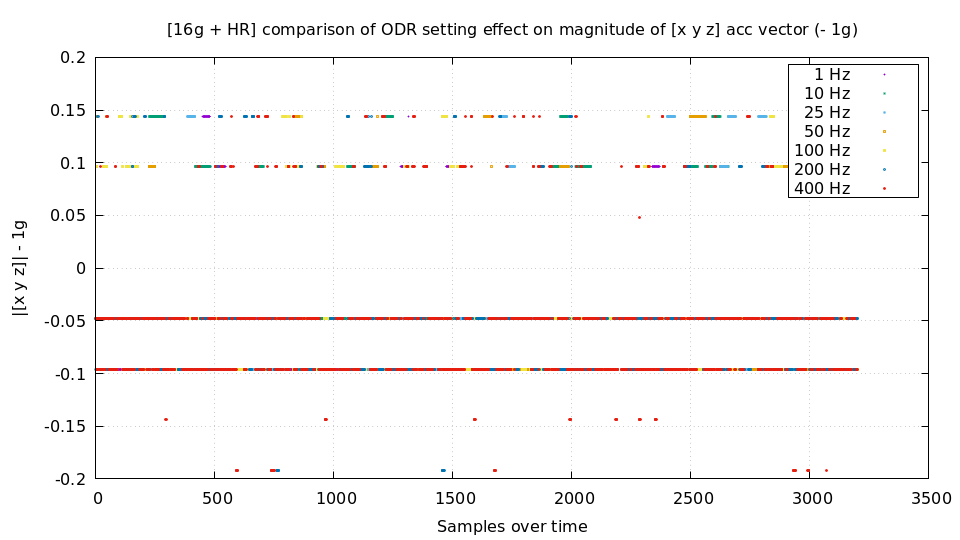
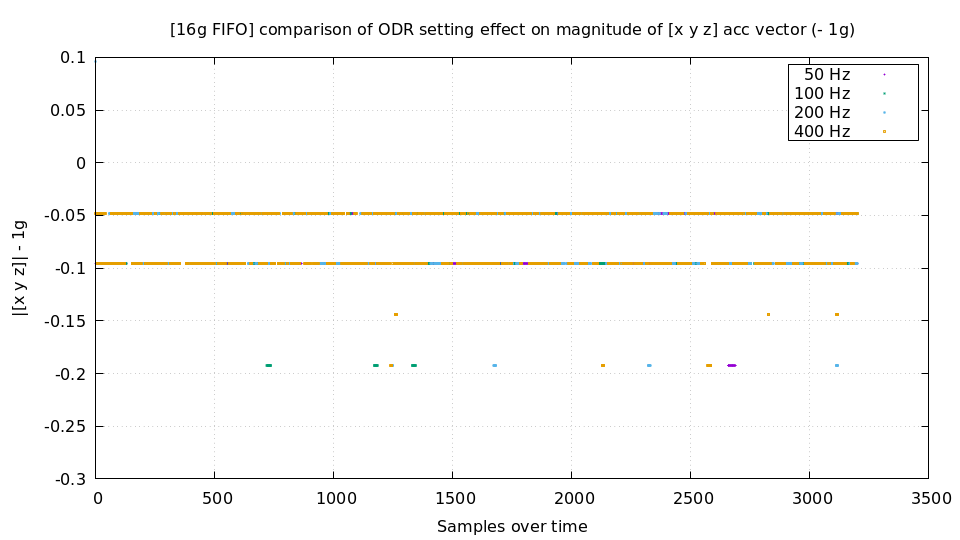
FIFO is always 10-bit

diff --git a/lis3dh.c b/lis3dh.c
@@ -294,8 +294,19 @@ int lis3dh_read_fifo(lis3dh_t *lis3dh, struct lis3dh_fifo_data *fifo) {
     int err = 0;
     int i, idx;
 
-    scale = acc_shift(lis3dh);
-    sens = acc_sensitivity(lis3dh);
+    /* FIFO is always 10-bit */
+    scale = 6;
+
+    /* normal mode */
+    if (lis3dh->cfg.range == LIS3DH_FS_2G) {
+        sens = 4;
+    } else if (lis3dh->cfg.range == LIS3DH_FS_4G) {
+        sens = 8;
+    } else if (lis3dh->cfg.range == LIS3DH_FS_8G) {
+        sens = 16;
+    } else { /* 16G */
+        sens = 48;
+    }
 
     /* fifo buffer is max 32 */
     fifo->size = lis3dh->cfg.fifo.fth > 32 ? 32 : lis3dh->cfg.fifo.fth;

diff --git a/README.md b/README.md
@@ -49,6 +49,10 @@ x: 0.5480, y: -0.8800, z: -0.0720 mag: 1.0392
 x: 0.5480, y: -0.8800, z: -0.0800 mag: 1.0398
 x: 0.5480, y: -0.8960, z: -0.0960 mag: 1.0547
 ```
+
+> ### Notes
+> FIFO is always and only 10-bit
+
 ### Noise at 2G
 ![DC noise at 2G](.gitea/graph-2g.png)
 
